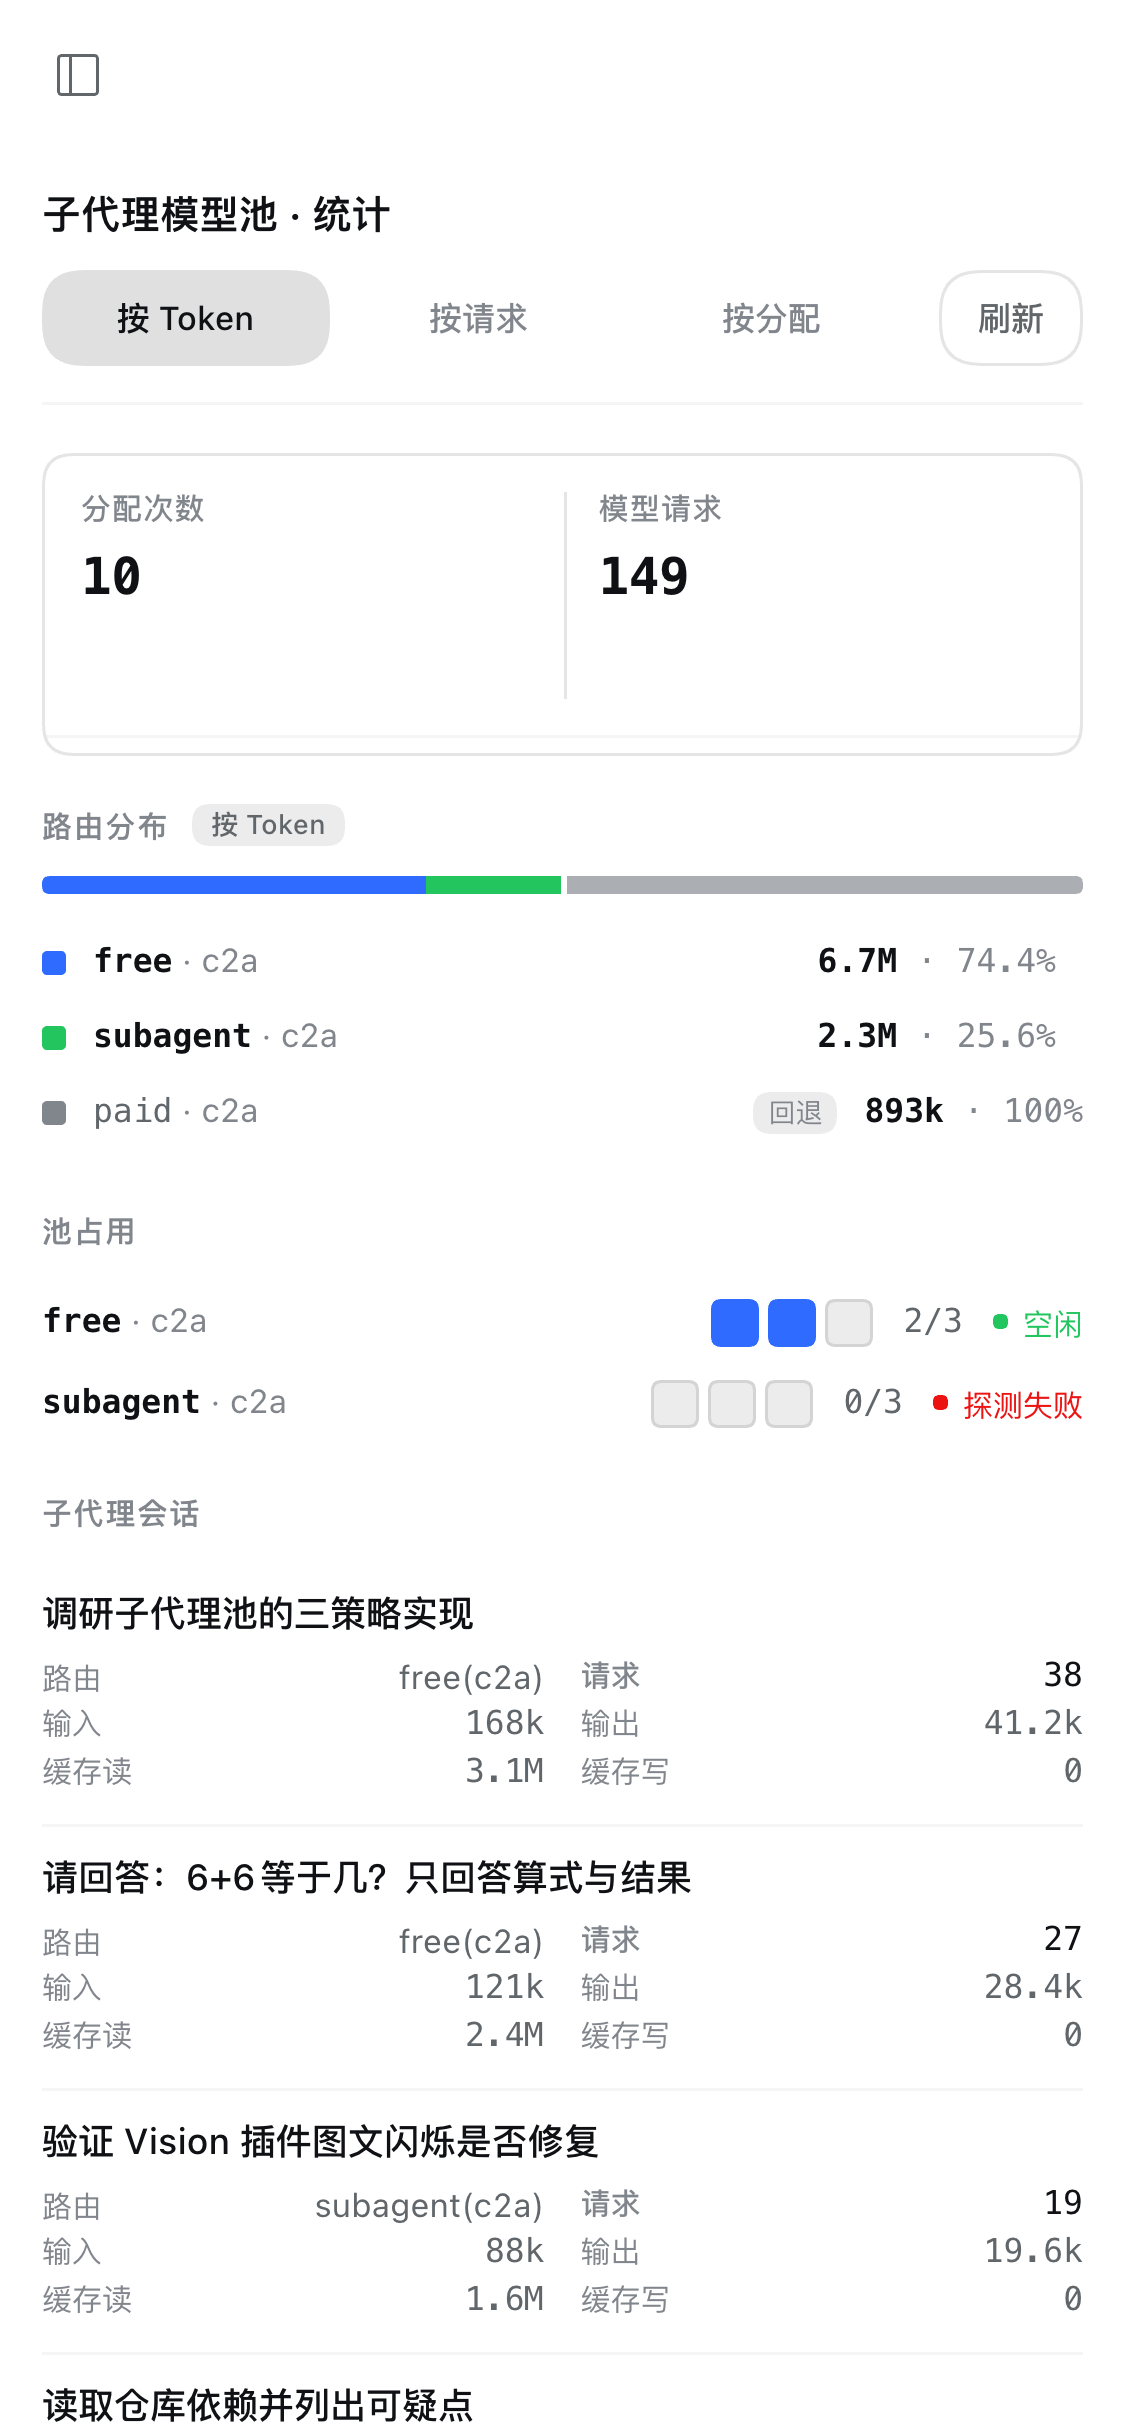
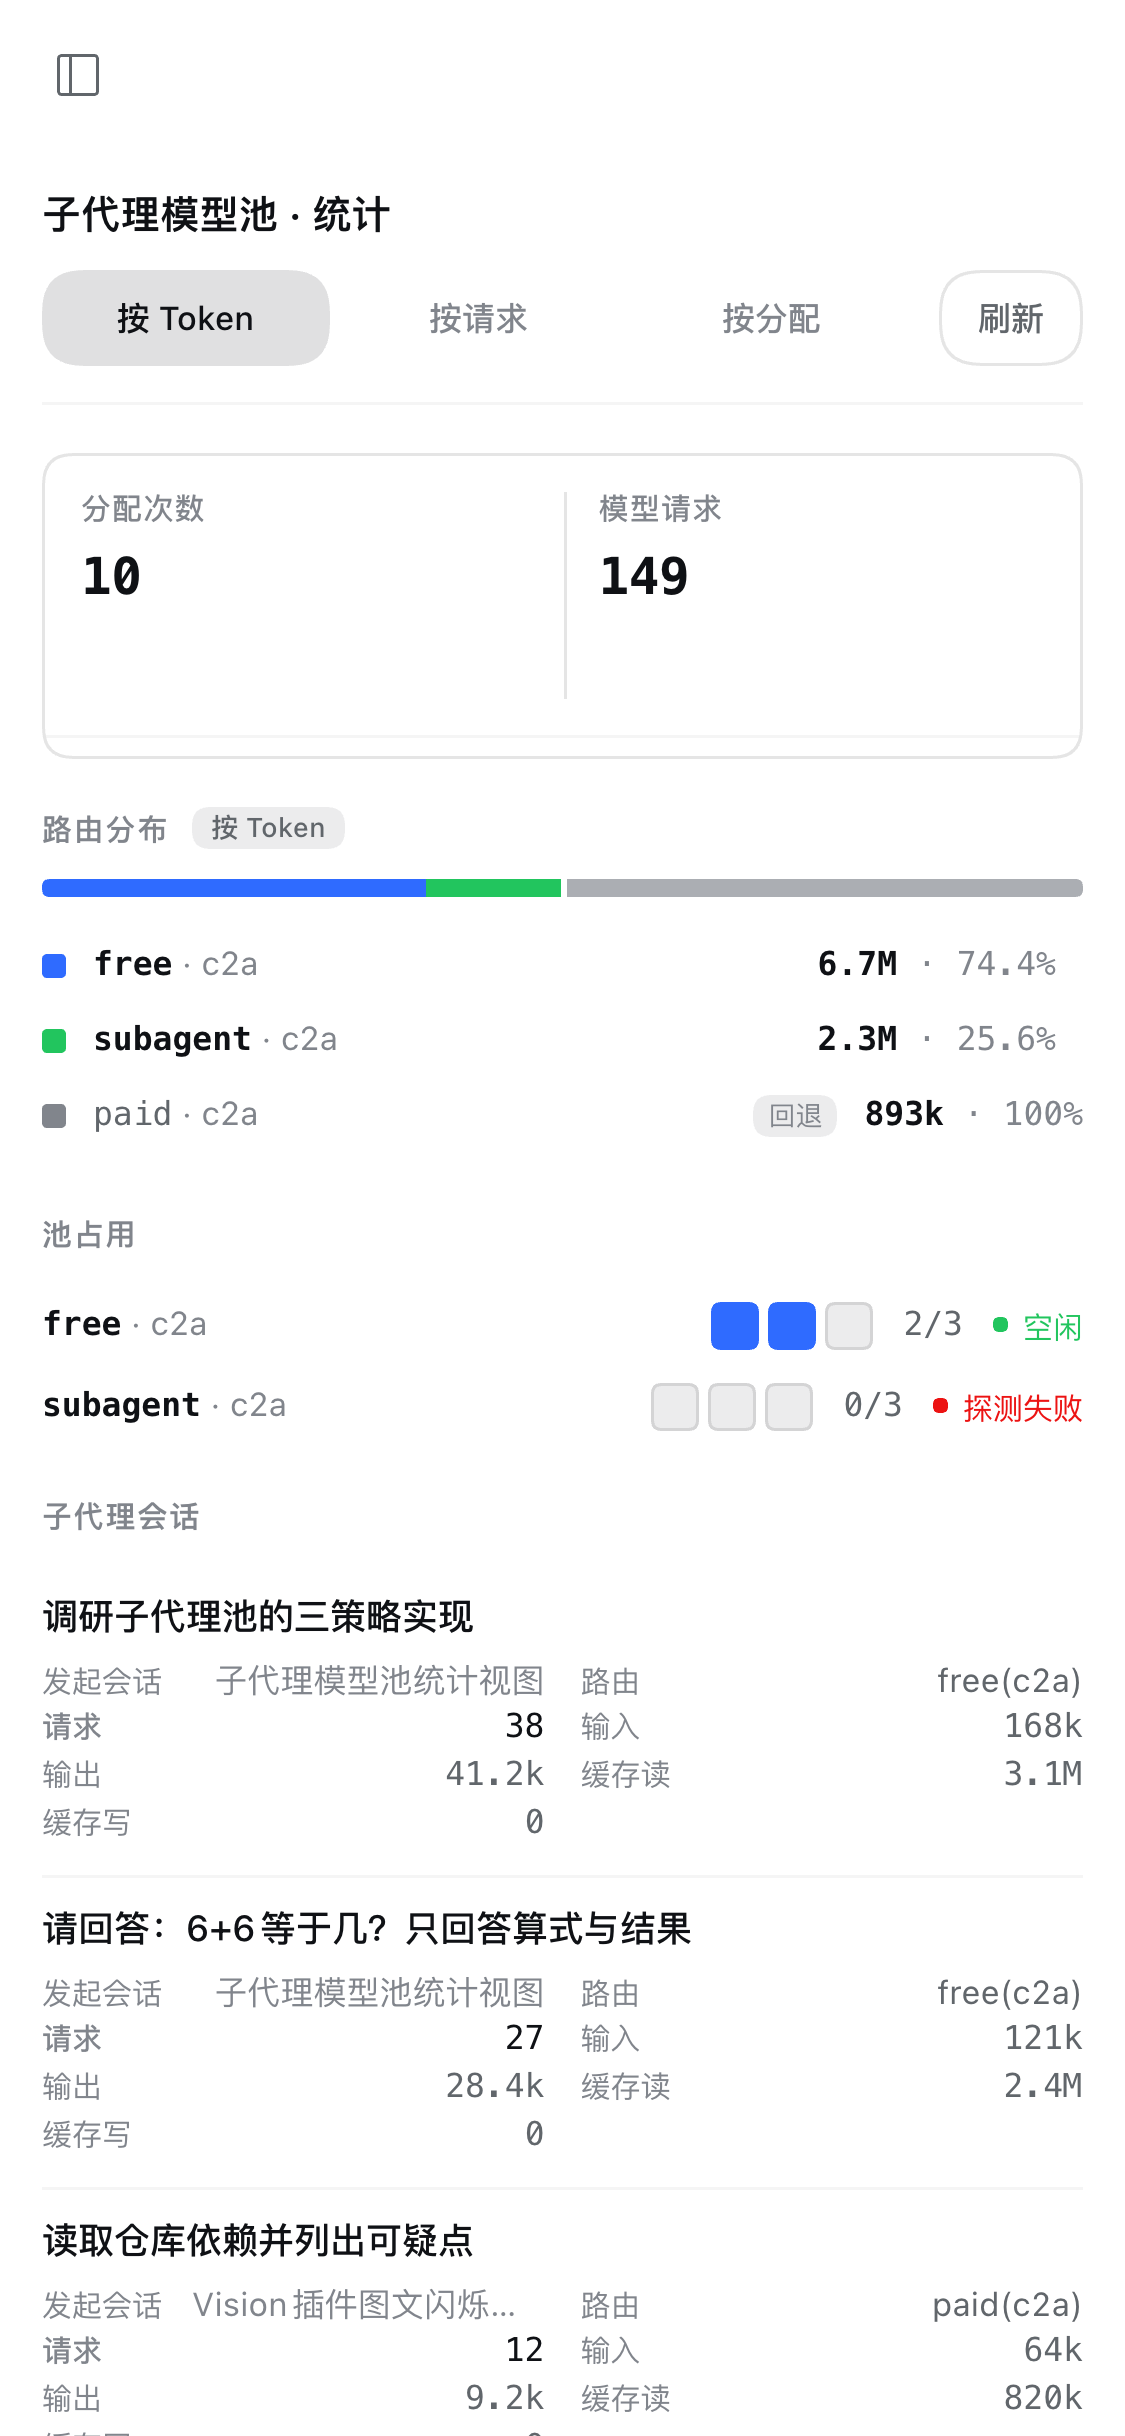
feat: 会话列表补「发起会话」列，看得出子代理是谁派的
之前把「类型」列删掉、父子分组也改成平铺，结果列表里一堆子代理
看不出归属——不知道是哪个主会话发起的。

改动：
- lib/stats.js：快照里每个子代理会话带上 parentTitle。父会话标题本来
  就在记（rememberTitle 在子代理过滤之前对所有会话生效，主代理不进账
  但标题照记），只是之前没往快照外传。
- client.js：表格加「发起会话」列（第二列）。标题列改名「子代理会话」。
  父会话标题降一档字色——它是上下文不是主角。父会话还没命名时退回
  id 前 8 位。
- 列表按发起会话聚合排序：同一主会话派出的子代理排在一起，
  扫一眼就知道哪个主会话最费。
- 列宽重排为 27/21/14/7/7/7/9/8。
- 手机端卡片列表里这一项带 data-label="发起会话"，不会丢字段。

实测：
- 8 列表头就位，5 个数值列与表头右边缘完全对齐（maxDiff 全 0）。
- 排序验证：p1 的两条相邻、p2 的两条相邻、p3 单独一条。
- 手机 375×812：该单元格 ::before 内容为「发起会话」，页面可滚动
  （scrollH 993 > clientH 764）。
- 测试 127 项全绿（新增 3 项：parentTitle 输出、无标题时为 undefined、
  同发起会话相邻排序）。

diff --git a/client.js b/client.js
@@ -877,6 +877,8 @@
         ".smpv-table tbody tr:last-child td{border-bottom:0}",
         ".smpv-table tbody tr:hover td{background:var(--smpv-tint-1)}",
         ".smpv-sessionTitle{display:block;overflow:hidden;text-overflow:ellipsis;white-space:nowrap;font-weight:500}",
+        // 发起会话：降一档字色——它是上下文，不是主角。
+        ".smpv-parentTitle .smpv-sessionTitle{font-weight:400;color:var(--dsw-alias-label-tertiary)}",
         ".smpv-num{font-family:var(--dsw-font-mono,ui-monospace,Menlo,monospace);text-align:right;font-size:11px;color:var(--dsw-alias-label-secondary);transition:opacity .14s ease-out}",
         // 请求数是这行最有信息量的数字，给它主字色。
         ".smpv-numLead{color:var(--dsw-alias-label-primary);font-weight:500}",
@@ -1036,7 +1038,17 @@
        * 全是子代理，没有父子层级可分——平铺即可。
        */
       function groupSessions(sessions) {
-        return sessions.map(function (session) {
+        // 按发起会话聚合排序：同一主会话派出的子代理排在一起，
+        // 扫一眼就知道哪个主会话最费、派了多少。
+        var sorted = sessions.slice().sort(function (left, right) {
+          var lp = left.parentSessionId === undefined ? "" : String(left.parentSessionId);
+          var rp = right.parentSessionId === undefined ? "" : String(right.parentSessionId);
+          if (lp !== rp) return lp < rp ? -1 : 1;
+          var lt = left.title === undefined || left.title === null ? "" : String(left.title);
+          var rt = right.title === undefined || right.title === null ? "" : String(right.title);
+          return lt.localeCompare(rt);
+        });
+        return sorted.map(function (session) {
           return { kind: "session", session: session };
         });
       }
@@ -1257,13 +1269,15 @@
                   jsx("thead", {
                     children: jsx("tr", {
                       children: [
-                        jsx("th", { style: { width: "38%" }, children: "会话" }),
-                        jsx("th", { style: { width: "18%" }, children: "路由" }),
+                        jsx("th", { style: { width: "27%" }, children: "子代理会话" }),
+                        // 这一列回答「谁派的」——没有它，列表里一堆子代理看不出归属。
+                        jsx("th", { style: { width: "21%" }, children: "发起会话" }),
+                        jsx("th", { style: { width: "14%" }, children: "路由" }),
                         jsx("th", { className: "smpv-num", style: { width: "7%" }, children: "请求" }),
-                        jsx("th", { className: "smpv-num", style: { width: "8%" }, children: "输入" }),
-                        jsx("th", { className: "smpv-num", style: { width: "8%" }, children: "输出" }),
-                        jsx("th", { className: "smpv-num", style: { width: "11%" }, children: "缓存读" }),
-                        jsx("th", { className: "smpv-num", style: { width: "10%" }, children: "缓存写" })
+                        jsx("th", { className: "smpv-num", style: { width: "7%" }, children: "输入" }),
+                        jsx("th", { className: "smpv-num", style: { width: "7%" }, children: "输出" }),
+                        jsx("th", { className: "smpv-num", style: { width: "9%" }, children: "缓存读" }),
+                        jsx("th", { className: "smpv-num", style: { width: "8%" }, children: "缓存写" })
                       ]
                     })
                   }),
@@ -1276,6 +1290,12 @@
                       var title = session.title !== undefined && session.title !== null
                         ? session.title
                         : session.sessionId;
+                      // 父会话标题可能还没到（父会话已创建但还没命名），退回 id 前缀。
+                      var parentText = session.parentTitle !== undefined && session.parentTitle !== null
+                        ? session.parentTitle
+                        : (session.parentSessionId !== undefined
+                          ? String(session.parentSessionId).slice(0, 8)
+                          : "—");
                       return jsx("tr", {
                         key: row.kind + ":" + session.sessionId,
                         className: row.kind,
@@ -1285,6 +1305,15 @@
                             children: jsx("span", {
                               className: "smpv-sessionTitle",
                               children: title
+                            })
+                          }),
+                          jsx("td", {
+                            className: "smpv-parentTitle",
+                            title: parentText,
+                            "data-label": "发起会话",
+                            children: jsx("span", {
+                              className: "smpv-sessionTitle",
+                              children: parentText
                             })
                           }),
                           jsx("td", {

diff --git a/tests/stats.test.js b/tests/stats.test.js
@@ -140,6 +140,30 @@ test("主代理会话的消耗不进池的账，只记子代理", () => {
   assert.equal(childRow.totalTokens, 90);
 });
 
+test("子代理会话带上父会话标题（主代理不进账但标题照记）", () => {
+  const stats = new PoolStats();
+  const parent = parentSessionOf("p1");
+  const child = sessionOf("c1", { parentSession: "p1" });
+  // 主代理的标题事件照样要记：列表里得能看出子代理是被哪个会话派出去的。
+  stats.rememberTitle(parent, "子代理模型池统计视图");
+  stats.rememberTitle(child, "请回答：6+6等于几？");
+  stats.recordSessionUsage(child, "c2a", "free", { turn: 1, step: 1 }, { inputTokens: 70, outputTokens: 20 }, 1000);
+  const snap = stats.snapshot();
+  const row = snap.sessions.find((s) => s.sessionId === "c1");
+  assert.equal(row.title, "请回答：6+6等于几？");
+  assert.equal(row.parentTitle, "子代理模型池统计视图");
+  // 主代理本身仍然不进会话列表。
+  assert.equal(snap.sessions.find((s) => s.sessionId === "p1"), undefined);
+});
+
+test("父会话没有标题时 parentTitle 为 undefined", () => {
+  const stats = new PoolStats();
+  const child = sessionOf("c1", { parentSession: "p1" });
+  stats.recordSessionUsage(child, "c2a", "free", { turn: 1, step: 1 }, { inputTokens: 10, outputTokens: 1 }, 1000);
+  const snap = stats.snapshot();
+  assert.equal(snap.sessions[0].parentTitle, undefined);
+});
+
 test("主代理会话完全不影响统计", () => {
   const stats = new PoolStats();
   stats.recordSessionUsage(

diff --git a/tests/stats-client.test.js b/tests/stats-client.test.js
@@ -151,6 +151,17 @@ test("会话平铺列出（账本只记子代理，没有父子层级）", () =>
   assert.equal(rows[0].kind, "session");
 });
 
+test("同发起会话的子代理排在一起", () => {
+  const { groupSessions } = loadTestExports();
+  const rows = groupSessions([
+    { sessionId: "a", parentSessionId: "p2", title: "B1", requests: 1, tokens: {}, routes: [] },
+    { sessionId: "b", parentSessionId: "p1", title: "A1", requests: 1, tokens: {}, routes: [] },
+    { sessionId: "c", parentSessionId: "p2", title: "B2", requests: 1, tokens: {}, routes: [] },
+    { sessionId: "d", parentSessionId: "p1", title: "A2", requests: 1, tokens: {}, routes: [] },
+  ]);
+  assert.deepEqual(rows.map((r) => r.session.sessionId), ["b", "d", "a", "c"]);
+});
+
 test("空列表返回空数组", () => {
   const { groupSessions } = loadTestExports();
   assert.deepEqual(groupSessions([]), []);

diff --git a/lib/stats.js b/lib/stats.js
@@ -420,6 +420,13 @@ export class PoolStats {
         cwd: detail.cwd,
         isSubagent: detail.isSubagent,
         title: this.#sessionTitles.get(detail.sessionId),
+        // 父会话标题：子代理是被哪个主会话派出去的，列表里得能看出来。
+        // 主代理不进账，但它的 title 照样记在 #sessionTitles 里（rememberTitle
+        // 对所有会话生效，不受子代理过滤影响）。
+        parentTitle:
+          detail.parentSessionId === undefined
+            ? undefined
+            : this.#sessionTitles.get(detail.parentSessionId),
         requests: detail.requests,
         tokens: { ...detail.tokens },
         totalTokens:
